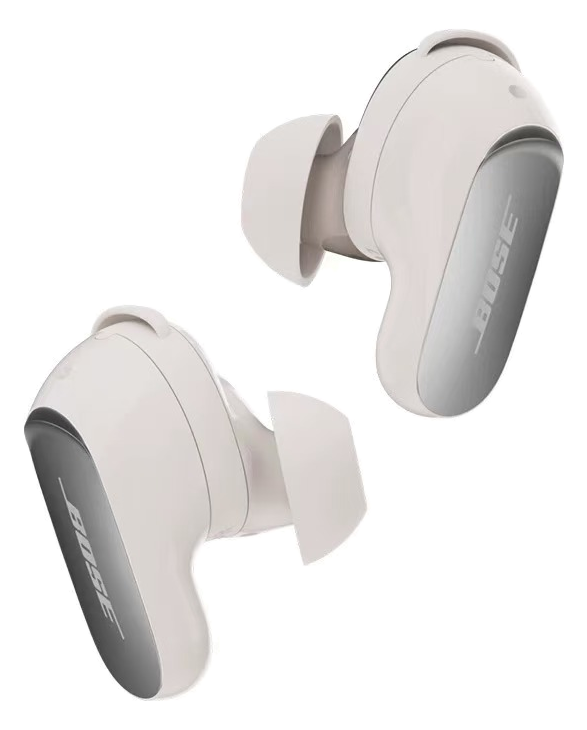
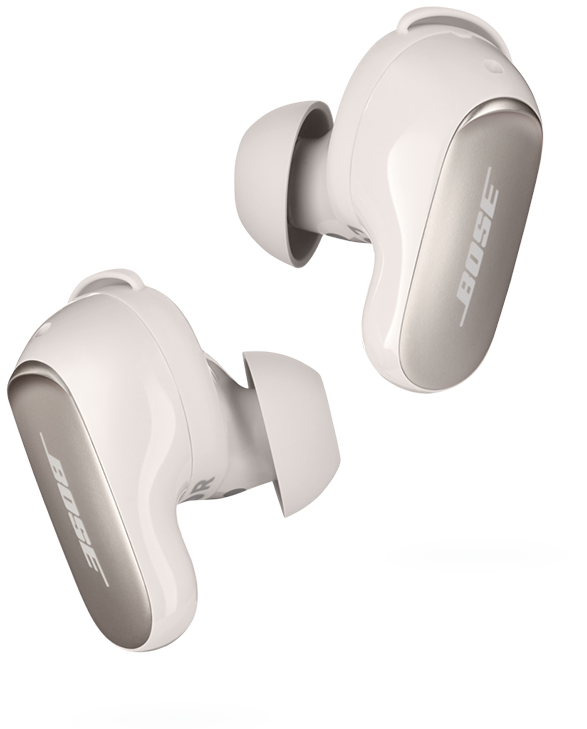
fix: 滑条改用 addPreference 钩子可靠注入 + 官方透明产品图 + 延迟重贴盖过原生异步加载（0.4.4）
1) 滑条时有时无（日志实锤）：0.4.3 在 onViewCreated 后延迟搜索
   findPreferenceByTitle(screen,'降噪效果')，12:08:09 成功、12:08:21 重开
   完全无注入日志也无异常——递归 Collection 字段的树遍历在
   NoiseReductionItem 入树前跑，必然找不到。
   改为在 detailPreferenceAdd 钩子里识别 NoiseReductionItem 实例，
   直接取它的 getParent() 当锚点，延迟 80/400ms 两次注入（不在
   addPreference 调用栈内操作），并用 BOSE_CNC_KEY 做幂等去重。
   installAdvancedSettingsFromPreferenceFragment 里的查找降级为
   仅兜底隐藏'降噪效果'死路行。
2) 产品图换成 Bose 官方透明底高清图（800x800 RGBA，74.9% 透明，
   裁边后 587x729）。
3) 图片'先转圈后变通用耳机图'：Melody 异步加载自家产品图，最后一次
   setImageDrawable 覆盖我们的图。改为设置后按 250/900/2000/4000ms
   四次重贴 applyBoseImage，每轮同时 cancelAnimation + GONE 掉
   loading 视图，杜绝转圈复现。
- versionCode 20 / 0.4.4-bose

diff --git a/app/src/main/java/com/melody/melodylink/hook/HookModule.java b/app/src/main/java/com/melody/melodylink/hook/HookModule.java
@@ -86,6 +86,7 @@ public final class HookModule extends XposedModule {
     private static final String ADVANCED_SETTING_KEY_PREFIX = "melodylink.setting.";
     private static final String HUAWEI_LOW_LATENCY_SETTING_KEY = "melodylink.huawei.low_latency";
     private static final String SOUND_QUALITY_TITLE = "音质音效";
+    private static final String BOSE_CNC_KEY = "melodylink.bose.cnc";
     private static final String NOISE_EFFECT_TITLE = "降噪效果";
     private static final int WF_1000XM3_PRODUCT_ID = 0x067410;
     private volatile int targetAddressHash;
@@ -683,6 +684,7 @@ public final class HookModule extends XposedModule {
                         Object result = chain.proceed();
                         removeUnsupportedDetailCategory(preference);
                         hideAncStrengthPreference(preference);
+                        captureNoiseEffectRow(preference);
                         return result;
                     }
                     if ("detailActivityCreate".equals(label)) {
@@ -1240,6 +1242,52 @@ public final class HookModule extends XposedModule {
     }
 
     /** Melody's child-menu is for ANC intensity, which this module intentionally does not support. */
+    /**
+     * The "降噪效果" row is the reliable anchor for the injected CNC slider.
+     * Capturing it the moment Melody adds it (inside detailPreferenceAdd) beats
+     * searching the finished tree later: 0.4.3 lost the slider whenever
+     * findPreferenceByTitle ran before the row existed, and the recursive
+     * Collection-field walk is not reliable across PreferenceGroup subclasses.
+     * The row itself is a dead end for Bose (it opens OPPO's own noise page,
+     * which drives a non-existent SPP channel) so we hide it too.
+     */
+    private void captureNoiseEffectRow(Object preference) {
+        if (preference == null || !boseBonded()) return;
+        if (preference.getClass().getName()
+                .equals("com.oplus.melody.ui.component.detail.noisereduction.NoiseReductionItem")) {
+            Object parent = invokeNoArg(preference, "getParent");
+            if (parent == null) return;
+            final Object group = parent;
+            final Object row = preference;
+            // addPreference must not run inside the addPreference hook itself —
+            // defer to the next frame, and retry once in case the group is still
+            // being populated.
+            for (int i = 0; i < 2; i++) {
+                mainHandler.postDelayed(() -> installBoseCncUnderNoiseRow(group, row), i == 0 ? 80L : 400L);
+            }
+        }
+    }
+
+    private void installBoseCncUnderNoiseRow(Object group, Object noiseRow) {
+        try {
+            if (group == null || noiseRow == null) return;
+            if (!boseBonded()) return;
+            ClassLoader loader = noiseRow.getClass().getClassLoader();
+            Object context = invokeNoArg(noiseRow, "getContext");
+            if (!(context instanceof Context)) return;
+            Activity activity = findActivity((Context) context);
+            if (activity == null) activity = detailActivity;
+            if (activity == null) return;
+            if (findPreferenceByKeyRecursive(group, BOSE_CNC_KEY)) return;
+            Integer order = (Integer) invokeNoArg(noiseRow, "getOrder");
+            if (addBoseCncPreference(group, loader, activity, order == null ? -1 : order + 1)) {
+                log(Log.INFO, TAG, event("installed Bose CNC slider under noise-effect row"));
+            }
+        } catch (Throwable t) {
+            log(Log.WARN, TAG, "Bose CNC slider install failed", t);
+        }
+    }
+
     private void hideAncStrengthPreference(Object preference) {
         if (preference == null || !hasMappedDeviceActive()) return;
         try {
@@ -1332,11 +1380,37 @@ public final class HookModule extends XposedModule {
             log(Log.WARN, TAG, event("Bose " + surface + " image skipped: asset unavailable"));
             return false;
         }
-        imageView.setImageURI(Uri.fromFile(imageFile));
-        imageView.setVisibility(View.VISIBLE);
-        hideLoadingView(readField(owner, loadingField));
+        applyBoseImage(imageView, imageFile, owner, loadingField);
+        // Melody loads its own product art asynchronously (spinner first, generic
+        // earbud photo last) and that late setImageDrawable overwrites ours — the
+        // reason the Bose photo appeared only on some page opens. Re-apply a few
+        // times so our image is the final state; the loading spinner is cancelled
+        // on every pass so it cannot reappear either.
+        final Object imageOwner = owner;
+        for (int i = 0; i < 4; i++) {
+            final long delay = i == 0 ? 250L : (i == 1 ? 900L : (i == 2 ? 2000L : 4000L));
+            mainHandler.postDelayed(() -> {
+                if (imageOwner == null) return;
+                File again = materializeBoseImage();
+                if (again == null) return;
+                applyBoseImage(imageView, again, imageOwner, loadingField);
+            }, delay);
+        }
         log(Log.INFO, TAG, event("replaced Bose " + surface + " product image"));
         return true;
+    }
+
+    /** Sets the Bose photo and silences the stock loading spinner for that view. */
+    private void applyBoseImage(ImageView imageView, File imageFile, Object owner, String loadingField) {
+        try {
+            imageView.setImageURI(Uri.fromFile(imageFile));
+            imageView.setVisibility(View.VISIBLE);
+            Object loading = loadingField == null ? null : readField(owner, loadingField);
+            hideLoadingView(loading);
+            if (loading instanceof View) ((View) loading).setVisibility(View.GONE);
+        } catch (Throwable t) {
+            log(Log.WARN, TAG, "Bose image apply failed", t);
+        }
     }
 
     private File materializeBoseImage() {
@@ -2528,21 +2602,14 @@ public final class HookModule extends XposedModule {
             // page. The privacy page reuses the same fragment class but has no such
             // row, so this lookup doubles as the page guard (0.4.1 regression: the
             // root-screen fallback dumped "高级设置" at the bottom of every page).
+            // The Bose CNC slider is injected from the detailPreferenceAdd hook
+            // (captureNoiseEffectRow), which anchors on the real NoiseReductionItem
+            // instance as Melody adds it. 0.4.3 lost the slider whenever this
+            // tree walk ran before the row existed. Here we only make sure the
+            // dead-end "降噪效果" row stays hidden even if the add hook missed it.
             if (hasBoseCnc) {
                 Object noiseRow = findPreferenceByTitle(screen, NOISE_EFFECT_TITLE);
-                if (noiseRow != null
-                        && !findPreferenceByKeyRecursive(screen, "melodylink.bose.cnc")) {
-                    // The row itself is a dead end for Bose: it opens OPPO's own
-                    // noise-effect page, which drives a non-existent SPP channel.
-                    // Hide it — the CNC slider below is its functional replacement.
-                    setPreferenceValue(noiseRow, "setVisible", Boolean.FALSE);
-                    Object cncParent = invokeNoArg(noiseRow, "getParent");
-                    Integer cncOrder = (Integer) invokeNoArg(noiseRow, "getOrder");
-                    addBoseCncPreference(cncParent != null ? cncParent : screen, loader, activity,
-                            cncOrder == null ? -1 : cncOrder + 1);
-                    log(Log.INFO, TAG, event("installed Bose CNC level slider under noise-effect row"
-                            + " (noise-effect row hidden)"));
-                }
+                if (noiseRow != null) setPreferenceValue(noiseRow, "setVisible", Boolean.FALSE);
             }
             if (!hasSonySettings && !hasHuaweiLowLatency) return;
             Object anchor = findPreferenceByTitle(screen, SOUND_QUALITY_TITLE);
@@ -2823,14 +2890,16 @@ public final class HookModule extends XposedModule {
      * widget exposes clean public setBarMaxValue/setProgress/setOnTrackChangeListener.
      * Placed directly under the "降噪效果" row, not in a buried category.
      */
-    private void addBoseCncPreference(Object parent, ClassLoader loader, Activity activity, int order) {
+    private boolean addBoseCncPreference(
+            Object parent, ClassLoader loader, Activity activity, int order) {
+        if (parent == null) return false;
         Object seek = newPreference(loader,
                 "com.oplus.melody.ui.widget.MelodyPromptVolumeSeekBarPreference", activity);
         if (seek == null) {
             log(Log.WARN, TAG, event("Bose CNC slider unavailable: COUI seekbar ctor failed"));
-            return;
+            return false;
         }
-        setPreferenceValue(seek, "setKey", "melodylink.bose.cnc");
+        setPreferenceValue(seek, "setKey", BOSE_CNC_KEY);
         setPreferenceValue(seek, "setTitle", "\u964d\u566a\u7b49\u7ea7");
         setPreferenceValue(seek, "setPersistent", false);
         // Raw 0..10 readout, not a percentage.
@@ -2846,9 +2915,12 @@ public final class HookModule extends XposedModule {
         setPreferenceValue(seek, "setSummary", "\u6548\u679c\u5f3a\u5ea6 " + level + "/10");
         if (order >= 0) setPreferenceValue(seek, "setOrder", order);
         installBoseCncListener(seek, loader);
-        if (addPreference(parent, seek, loader)) {
-            boseCncPreference = seek;
+        if (!addPreference(parent, seek, loader)) {
+            log(Log.WARN, TAG, event("Bose CNC slider add rejected by parent"));
+            return false;
         }
+        boseCncPreference = seek;
+        return true;
     }
 
     /** Re-sync the injected slider when a BMAP session reports the real CNC level. */
